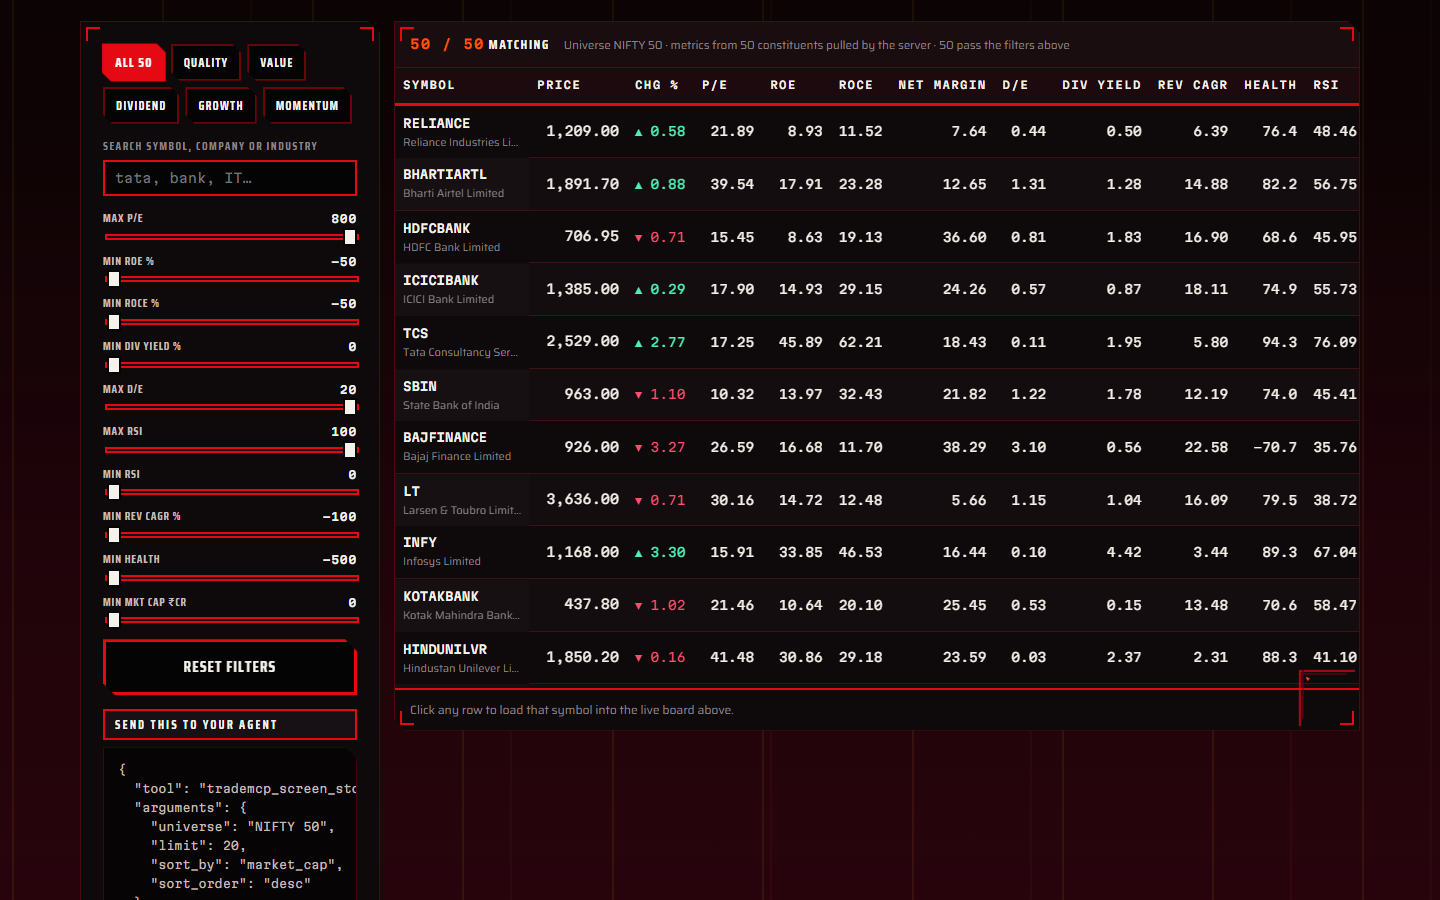
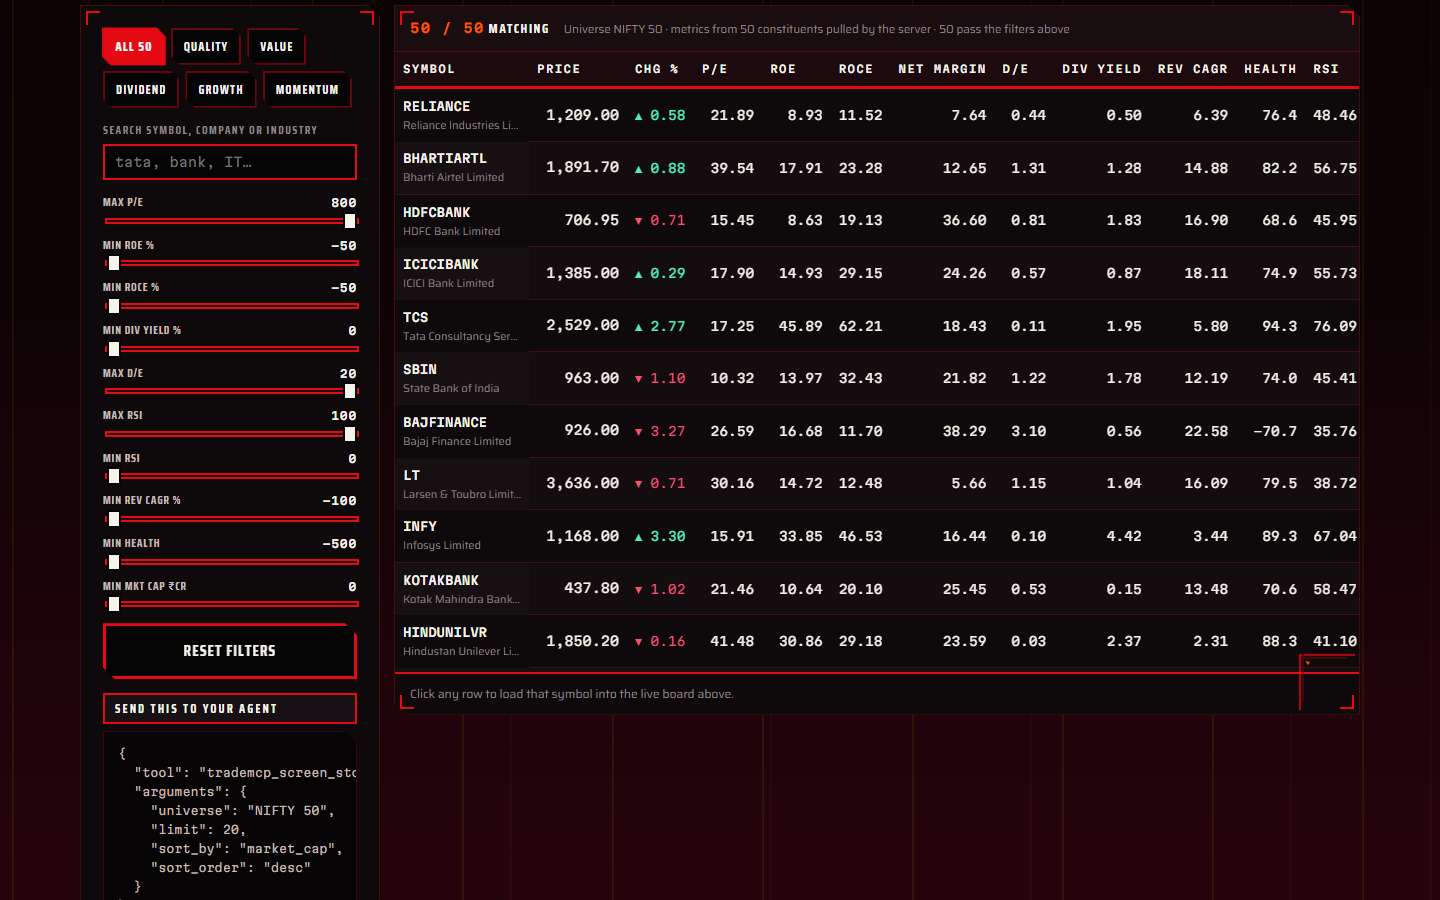
Regenerate the stills without the shrine roof
The roof took 154px of page height at 1440, so every frame below the hero moved up by that much. The capture offsets are corrected and the stills are re-shot from a clean export of HEAD, so the repo pictures match what is deployed.

Changed region(s): [[0.25, 0.0, 0.9375, 0.8089], [0.0625, 0.0, 0.25, 0.9956]]

diff --git a/scripts/capture_screenshots.py b/scripts/capture_screenshots.py
@@ -36,7 +36,7 @@ FRAME = 900
 PLAN = {
     "paper": (FRAME, [("01-paper", 0)]),
     "void": (3400, [("02-infinite-void", 0), ("05-live-board-void", 1150)]),
-    "shrine": (3800, [("03-malevolent-shrine", 0), ("04-live-board-shrine", 1560), ("06-screener", 2650)]),
+    "shrine": (3800, [("03-malevolent-shrine", 0), ("04-live-board-shrine", 1406), ("06-screener", 2496)]),
 }
 
 
